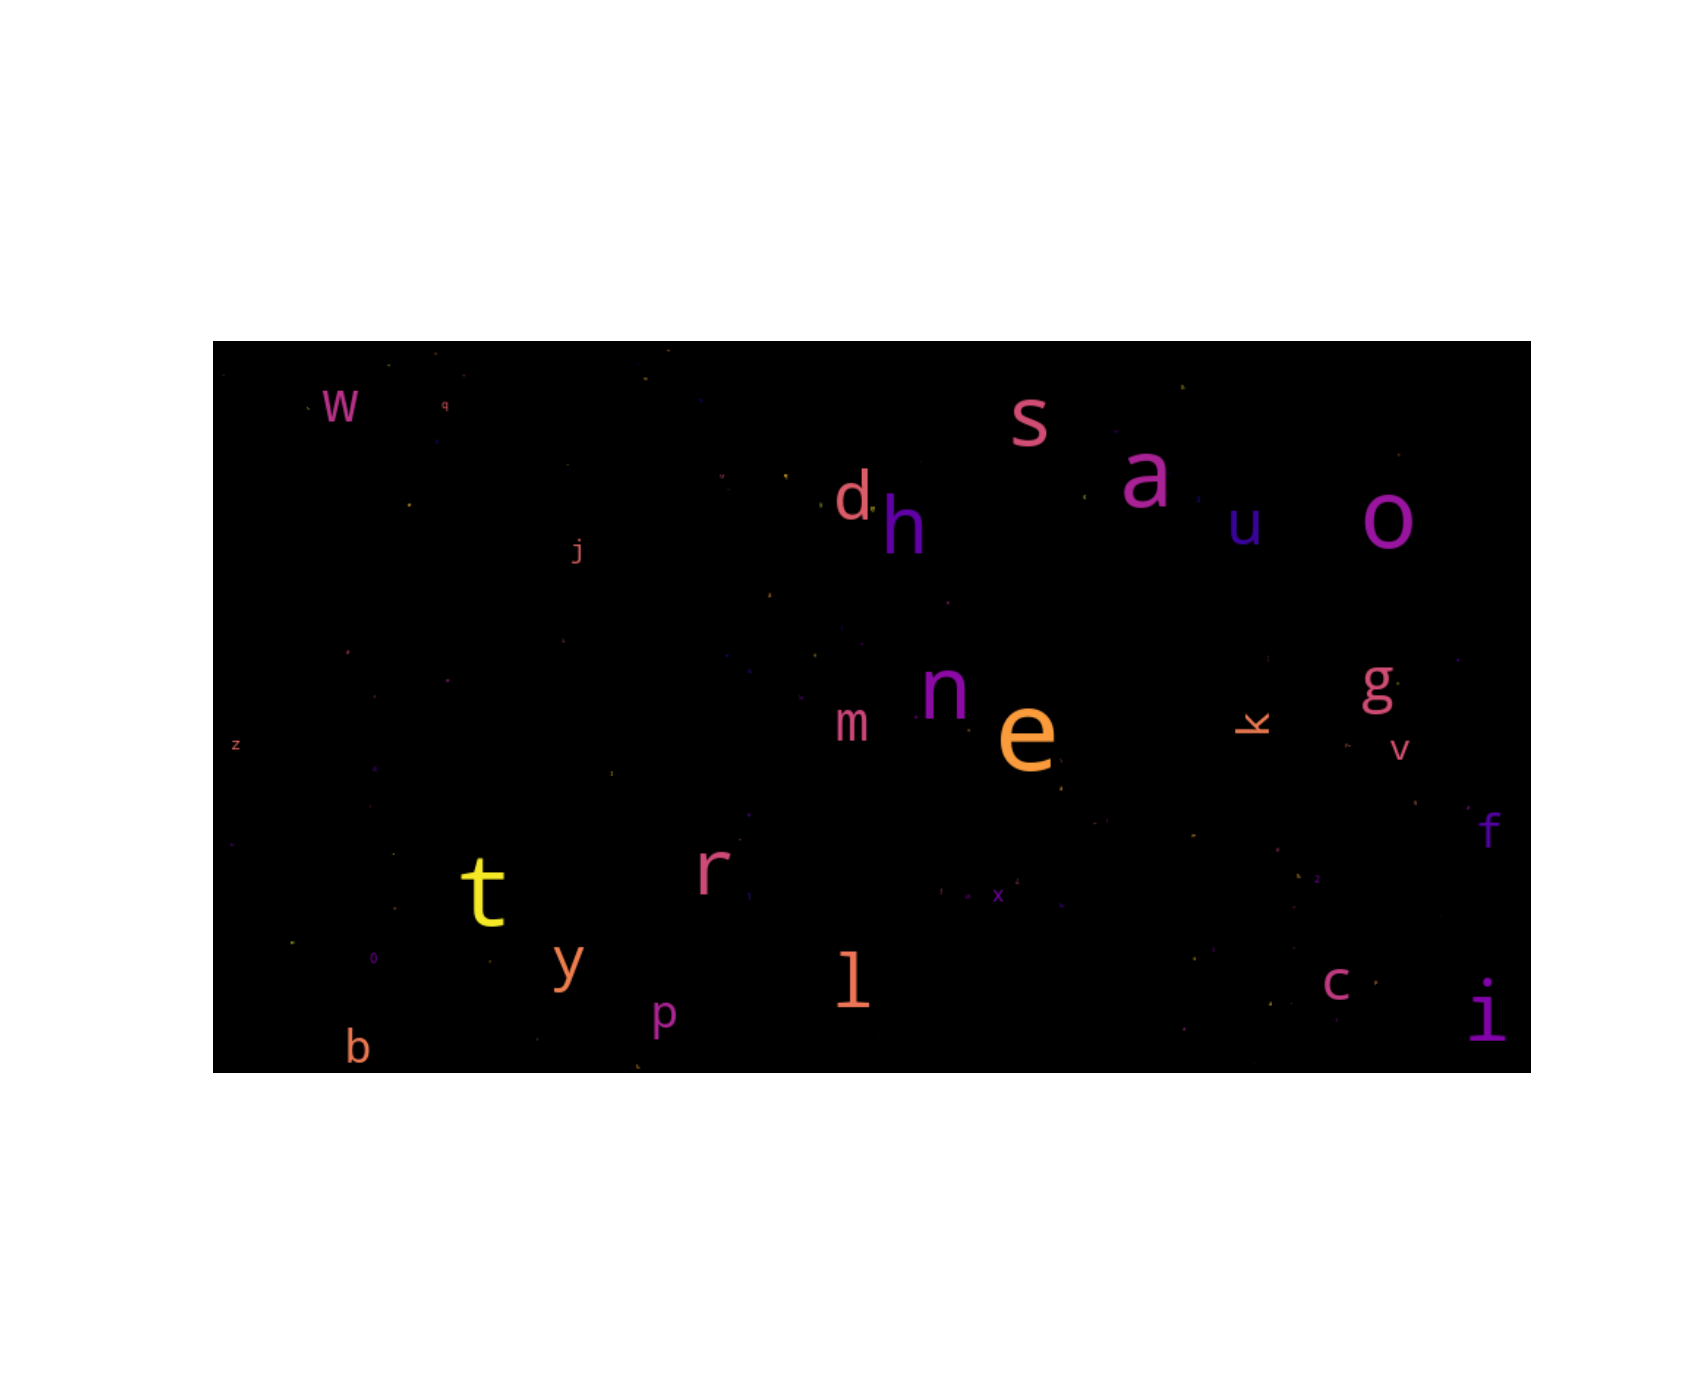
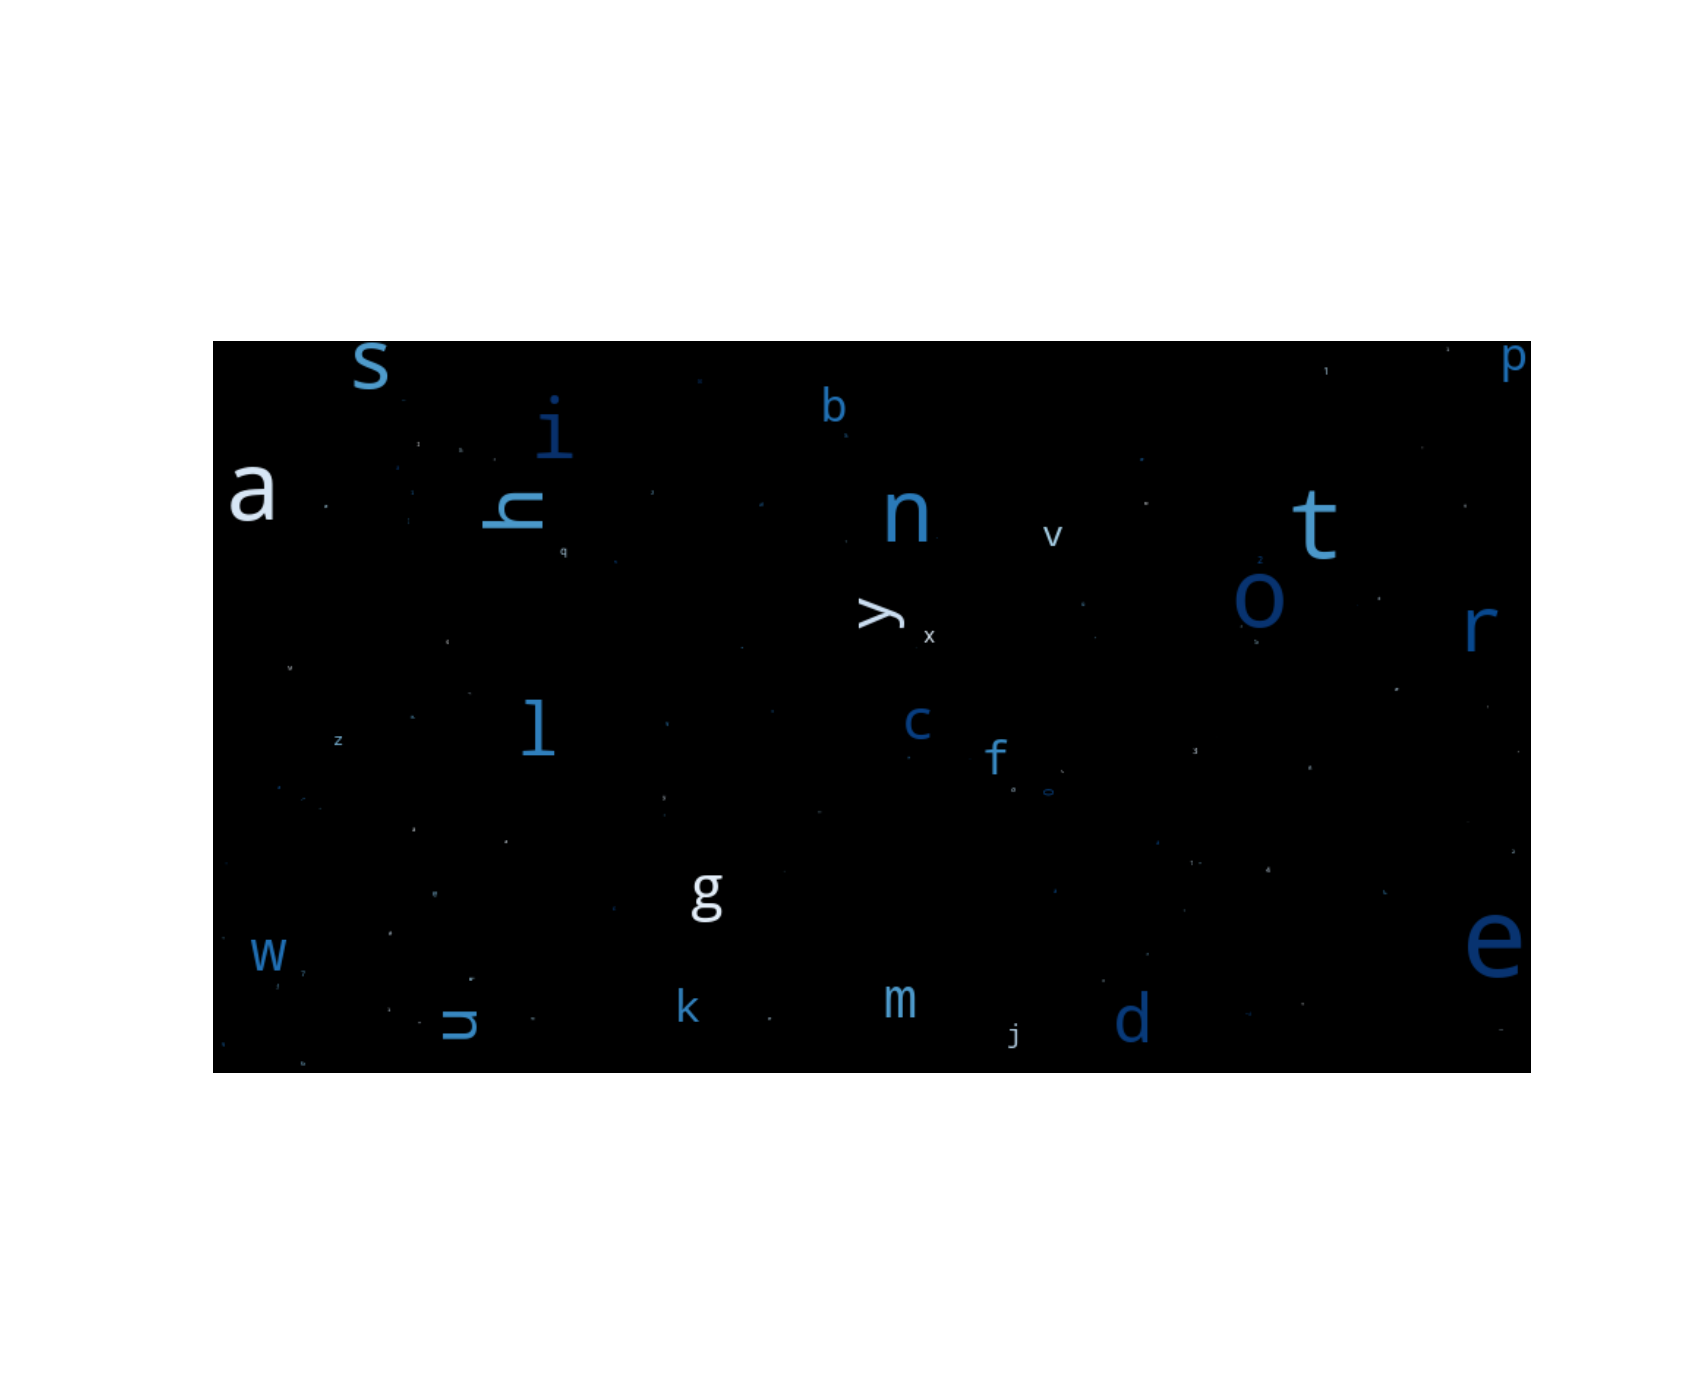
added naives bayes

diff --git a/Symposium/tweets.py b/Symposium/tweets.py
@@ -1,41 +1,63 @@
-from Symposium.analysis import Analysis
+import copy
+from Symposium.analysis import Analysis, word_cloud
 from Symposium.dataloader import load_dataset
-from Symposium.nlp import process_text
-import pprint
+from Symposium.models import naives_bayes, get_predictions
+from Symposium.preprocessing import *
+from sklearn.model_selection import train_test_split, GridSearchCV
+import Symposium.config
 
 if __name__ == "__main__":
+    Symposium.config.report.write("*****************************************************************************\n")
+    Symposium.config.report.write("*                                                                           *\n")
+    Symposium.config.report.write("*                     Twitter Sentiment Analysis                            *\n")
+    Symposium.config.report.write("*                                                                           *\n")
+    Symposium.config.report.write("*****************************************************************************\n")
+
     datafile = "dataset/SentimentAnalysisDataset.csv"
     columns = ["ItemID", "Sentiment", "SentimentSource", "SentimentText"]
 
     dataset = load_dataset(datafile, columns)
 
-    # dataset analysis
-    analysis1 = Analysis(dataset, columns)
-    label_splits = analysis1.result_ratio(columns[1])
-    mean, median, mode, std, outliers = analysis1.word_count()
-    common_words = analysis1.common_words()
+    # raw dataset analysis
+    raw_analysis = Analysis(dataset, columns)
+    label_splits = raw_analysis.result_ratio(columns[1])
+    mean, median, mode, std, outliers = raw_analysis.word_count()
+    common_words = raw_analysis.common_words()
 
-    # TODO split test/train
+    Symposium.config.report.write("\nDistribution of label types\n")
+    Symposium.config.report.write("\n-----------------------------------------------------------------------------")
+    Symposium.config.report.write("\nNegative sentiment:  " + str(label_splits[0]))
+    Symposium.config.report.write("\nPositive sentiment:  " + str(label_splits[1]))
+    Symposium.config.report.write("\nTotal :             " + str(label_splits[1] + label_splits[0]))
+    Symposium.config.report.write("\n-----------------------------------------------------------------------------")
+    Symposium.config.report.write("\nTweet word length")
+    Symposium.config.report.write("\n-----------------------------------------------------------------------------")
+    Symposium.config.report.write("\nMean words:                " + str(mean))
+    Symposium.config.report.write("\nMost frequent word count:  " + str(mode[0][0]) + " words occurred "
+                                   + str(mode[1][0]) + " times")
+    Symposium.config.report.write("\nMedian word count:         " + str(median))
+    Symposium.config.report.write("\nStandard Deviation:        " + str(std))
+    Symposium.config.report.write("\n-----------------------------------------------------------------------------")
+    Symposium.config.report.write("\nMost Common Words")
+    Symposium.config.report.write("\n-----------------------------------------------------------------------------")
+    for word in common_words:
+        Symposium.config.report.write(word[0])
 
-    # summary report printout
-    print("*****************************************************************************")
-    print("*                                                                           *")
-    print("*                     Twitter Sentiment Analysis                            *")
-    print("*                                                                           *")
-    print("*****************************************************************************")
-    print("\nDistribution of label types")
-    print("-----------------------------------------------------------------------------")
-    print("Negative sentiment:  " + str(label_splits[0]))
-    print("Positive sentiment:  " + str(label_splits[1]))
-    print("Total :             " + str(label_splits[1] + label_splits[0]))
-    print("\n-----------------------------------------------------------------------------")
-    print("Tweet word length")
-    print("-----------------------------------------------------------------------------")
-    print("Mean words:                " + str(mean))
-    print("Most frequent word count:  " + str(mode[0][0]) + " words occurred " + str(mode[1][0]) + " times")
-    print("Median word count:         " + str(median))
-    print("Standard Deviation:        " + str(std))
-    print("\n-----------------------------------------------------------------------------")
-    print("Most Common Words")
-    print("-----------------------------------------------------------------------------")
-    pprint.pprint(common_words)
+    # preprocess the dataset manually for analysis
+    # filter out the non-text stuff (emojis, hashtags, urls)
+    processed_dataset = copy.deepcopy(dataset)
+    processed_dataset['SentimentText'] = processed_dataset['SentimentText'].apply(process_tweet)
+    processed_dataset['Tokens'] = processed_dataset['SentimentText'].apply(text_process)
+    processed_analysis = Analysis(processed_dataset, columns)
+    processed_analysis.common_words(name='preprocess', title='Most common 25 words after text cleaning')
+    word_cloud(processed_dataset['tokens'])
+
+    # start the training/testing
+    # create a pipeline for the data using Naive Bayes Classifier
+    X_train, X_test, y_train, y_test = train_test_split(dataset['SentimentText'], dataset['Sentiment'], test_size=0.2)
+
+    save_NB = "pickles/naive_bayes.pkl"
+    naives_bayes(X_train, y_train, save_NB)
+    get_predictions(save_NB, X_test, y_test, "Naives Bayes Best Model Results")
+
+

diff --git a/Symposium/models.py b/Symposium/models.py
@@ -1,0 +1,61 @@
+import joblib
+from sklearn.feature_extraction.text import CountVectorizer, TfidfTransformer
+from sklearn.metrics import accuracy_score, confusion_matrix, classification_report
+from sklearn.naive_bayes import MultinomialNB
+from sklearn.pipeline import Pipeline
+from sklearn.model_selection import GridSearchCV
+
+import Symposium.config
+
+
+def naives_bayes(X_train, y_train, save_loc):
+    pipeline = Pipeline([
+            ('bow', CountVectorizer(strip_accents='ascii',
+                                    stop_words='english',
+                                    lowercase=True)), # strings to token integer counts
+            ('tfidf', TfidfTransformer()),  # integer counts to weighted TF-IDF scores
+            ('classifier', MultinomialNB()),  # train on TF-IDF vectors w/ Na
+            ])
+
+    # parameters for grid search
+    parameters = {'bow__ngram_range': [(1, 1), (1, 2)],
+                  'tfidf__use_idf': (True, False),
+                  'classifier__alpha': (1e-2, 1e-3),
+                  }
+    # do 10-fold cross validation for each of the 6 possible combinations of the above params
+    grid = GridSearchCV(pipeline, cv=10, param_grid=parameters, verbose=1)
+    grid.fit(X_train, y_train)
+    # summarize results
+
+    means = grid.cv_results_['mean_test_score']
+    stds = grid.cv_results_['std_test_score']
+    params = grid.cv_results_['params']
+
+    Symposium.config.report.write("\n-----------------------------------------------------------------------------")
+    Symposium.config.report.write("Best Model: %f using %s" % (grid.best_score_, grid.best_params_))
+    Symposium.config.report.write("-----------------------------------------------------------------------------")
+    for mean, stdev, param in zip(means, stds, params):
+        Symposium.config.report.write("Mean: %f Stdev:(%f) with: %r" % (mean, stdev, param))
+
+    # Save the best model
+    joblib.dump(grid, save_loc)
+
+
+def get_predictions(file, X_test, y_test, title):
+    # load from file and predict using the best configs found in the CV step
+    model = joblib.load(file)
+    # get predictions from best model above
+    y_preds = model.predict(X_test)
+    print('accuracy score: ', accuracy_score(y_test, y_preds))
+    print('\n')
+    print('confusion matrix: \n', confusion_matrix(y_test, y_preds))
+    print('\n')
+    print(classification_report(y_test, y_preds))
+    Symposium.config.report.write("\n-----------------------------------------------------------------------------")
+    Symposium.config.report.write(title)
+    Symposium.config.report.write("-----------------------------------------------------------------------------")
+    Symposium.config.report.write('accuracy score: ', accuracy_score(y_test, y_preds))
+    Symposium.config.report.write('\n')
+    Symposium.config.report.write('confusion matrix: \n', confusion_matrix(y_test, y_preds))
+    Symposium.config.report.write('\n')
+    Symposium.config.report.write(classification_report(y_test, y_preds))

diff --git a/Symposium/visualization.py b/Symposium/visualization.py
@@ -1,6 +1,7 @@
 import matplotlib.pyplot as plt
 import nltk
 import seaborn as sns
+from wordcloud import WordCloud
 
 # pie chart
 import numpy as np
@@ -19,6 +20,7 @@ def chart_pie(sizes, labels):
 
     plt.savefig('graphs/sentiment_distribution.png')
     plt.show()
+    plt.close('all')
 
 
 def word_histogram(data):
@@ -29,6 +31,28 @@ def word_histogram(data):
     plt.title('Word Count Distribution')
     plt.savefig('graphs/word_length_distribution.png')
     plt.show()
+    plt.close('all')
+
+
+def word_box_plot(data):
+    sns.boxplot(x=data)
+    plt.xlabel('Word Count')
+    plt.title('Word Count Box Plot')
+    plt.savefig('graphs/word_length_box_plot.png')
+    plt.show()
+    plt.close('all')
+
+
+# line plot
+def plot_common_words(words, name, title):
+    fig = plt.figure(figsize=(12, 5))
+    plt.title(title)
+    plt.xticks(fontsize=13, rotation=90)
+    fd = nltk.FreqDist(words)
+    fd.plot(25, cumulative=False)
+    plt.show()
+    fig.savefig('graphs/common_words_count_' + name + '.png')
+    plt.close('all')
 
 
 def word_histogram_outcome(pos, neg):
@@ -40,23 +64,27 @@ def word_histogram_outcome(pos, neg):
     plt.hist([pos, neg], color=['r', 'b'], alpha=0.5, label=['positive', 'negative'])
     plt.legend(loc='upper right')
     plt.savefig('graphs/word_length_distribution_by_sentiment.png')
-
-
-def word_box_plot(data):
-    sns.boxplot(x=data)
-    plt.xlabel('Word Count')
-    plt.title('Word Count Box Plot')
-    plt.savefig('graphs/word_length_box_plot.png')
     plt.show()
+    plt.close('all')
 
 
-# line plot
-def plot_common_words(words):
-    plt.figure(figsize=(12, 5))
-    plt.title('Top 25 most common words')
-    plt.xticks(fontsize=13, rotation=90)
-    fd = nltk.FreqDist(words)
-    fd.plot(25, cumulative=False)
-    plt.savefig('graphs/common_words_count.png')
+def word_cloud(words):
+    all_words = []
+    for line in words:
+        all_words.extend(line)
+    # creates a word frequency dictionary
+    word_freq = nltk.Counter(all_words)
+    # draw a Word Cloud with word frequencies
+    wordcloud = WordCloud(width=900,
+                          height=500,
+                          max_words=500,
+                          max_font_size=100,
+                          relative_scaling=0.5,
+                          colormap='Blues',
+                          normalize_plurals=True).generate_from_frequencies(word_freq)
+    plt.figure(figsize=(17, 14))
+    plt.imshow(wordcloud, interpolation='bilinear')
+    plt.axis("off")
+    plt.savefig('graphs/frequent_word_cloud.png')
     plt.show()
-# write image to file
+    plt.close('all')

diff --git a/Symposium/preprocessing.py b/Symposium/preprocessing.py
@@ -1,0 +1,58 @@
+# modified from Ronald Wahome
+# https://towardsdatascience.com/the-real-world-as-seen-on-twitter-sentiment-analysis-part-one-5ac2d06b63fb
+# helper function to clean tweets
+import re
+import string
+from string import punctuation
+
+from nltk.corpus import stopwords
+
+
+def process_tweet(tweet):
+    # Remove HTML special entities (e.g. &amp;)
+    tweet = re.sub(r'\&\w*;', '', tweet)
+    # Convert @username to AT_USER
+    tweet = re.sub('@[^\s]+', '', tweet)
+    # Remove tickers
+    tweet = re.sub(r'\$\w*', '', tweet)
+    # To lowercase
+    tweet = tweet.lower()
+    # Remove hyperlinks
+    tweet = re.sub(r'https?:\/\/.*\/\w*', '', tweet)
+    # Remove hashtags
+    tweet = re.sub(r'#\w*', '', tweet)
+    # Remove Punctuation and split 's, 't, 've with a space for filter
+    tweet = re.sub(r'[' + punctuation.replace('@', '') + ']+', ' ', tweet)
+    # Remove words with 2 or fewer letters
+    tweet = re.sub(r'\b\w{1,2}\b', '', tweet)
+    # Remove whitespace (including new line characters)
+    tweet = re.sub(r'\s\s+', ' ', tweet)
+    # Remove single space remaining at the front of the tweet.
+    tweet = tweet.lstrip(' ')
+    # Remove characters beyond Basic Multilingual Plane (BMP) of Unicode:
+    tweet = ''.join(c for c in tweet if c <= '\uFFFF')
+    return tweet
+
+
+def text_process(raw_text):
+    """
+    Takes in a string of text, then performs the following:
+    1. Remove all punctuation
+    2. Remove all stopwords
+    3. Returns a list of the cleaned text
+    """
+    # check for and remove punctuation characters
+    no_punc = [char for char in list(raw_text) if char not in string.punctuation]
+
+    # rejoin the characters without the punctuation
+    no_punc = ''.join(no_punc)
+
+    # remove all the stop words
+    return [word for word in no_punc.lower().split() if word.lower() not in stopwords.words('english')]
+
+
+# function to remove a custom set of word (not used initially)
+def remove_words(word_list):
+    # add custom words to the list
+    remove = []
+    return [word for word in word_list if word not in remove]

diff --git a/Symposium/analysis.py b/Symposium/analysis.py
@@ -44,11 +44,11 @@ class Analysis(object):
         return mean, median, mode, std, outliers
 
     # most common words (graph)
-    def common_words(self):
+    def common_words(self, name='raw', title='Top 25 most common words'):
         all_words = []
         for line in list(self.dataset['SentimentText']):
             words = line.split()
             for word in words:
                 all_words.append(word.lower())
-        plot_common_words(all_words)
+        plot_common_words(all_words, name, title)
         return Counter(all_words).most_common(10)

diff --git a/Symposium/dataloader.py b/Symposium/dataloader.py
@@ -4,3 +4,4 @@ import pandas as pd
 def load_dataset(file, columns):
     dataset = pd.read_csv(file, usecols=columns)
     return dataset
+

diff --git a/Symposium/config.py b/Symposium/config.py
@@ -1,0 +1,1 @@
+report = open("report.txt", "w")

diff --git a/Symposium/readme.md b/Symposium/readme.md
@@ -1,5 +1,5 @@
 
 
 https://towardsdatascience.com/the-real-world-as-seen-on-twitter-sentiment-analysis-part-one-5ac2d06b63fb
-
+https://towardsdatascience.com/the-real-world-as-seen-on-twitter-sentiment-analysis-part-two-3ed2670f927d
 https://towardsdatascience.com/gentle-start-to-natural-language-processing-using-python-6e46c07addf3
